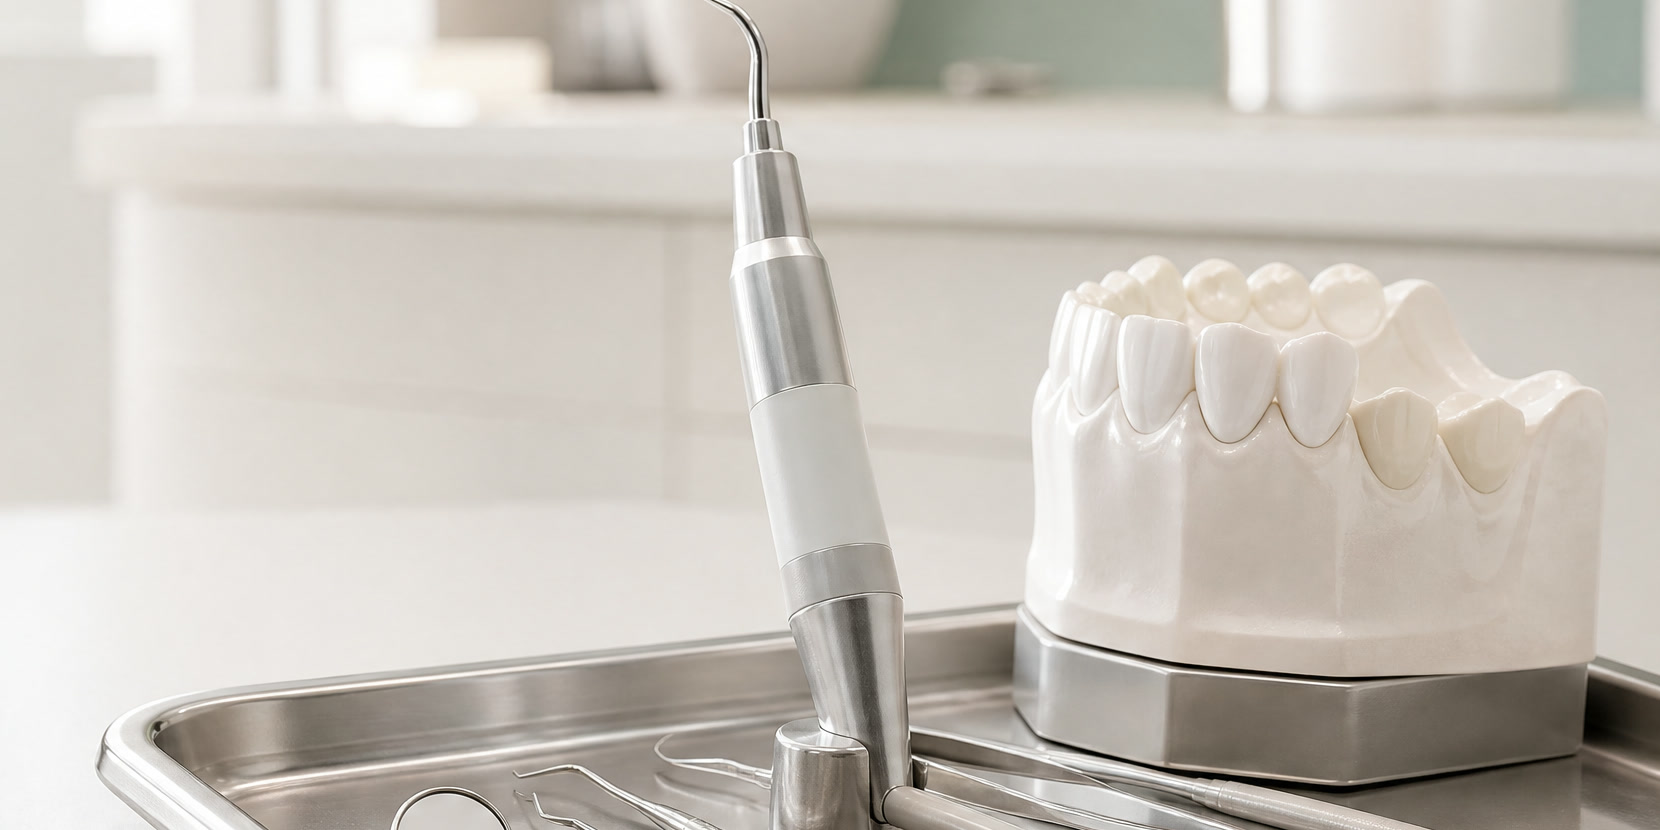
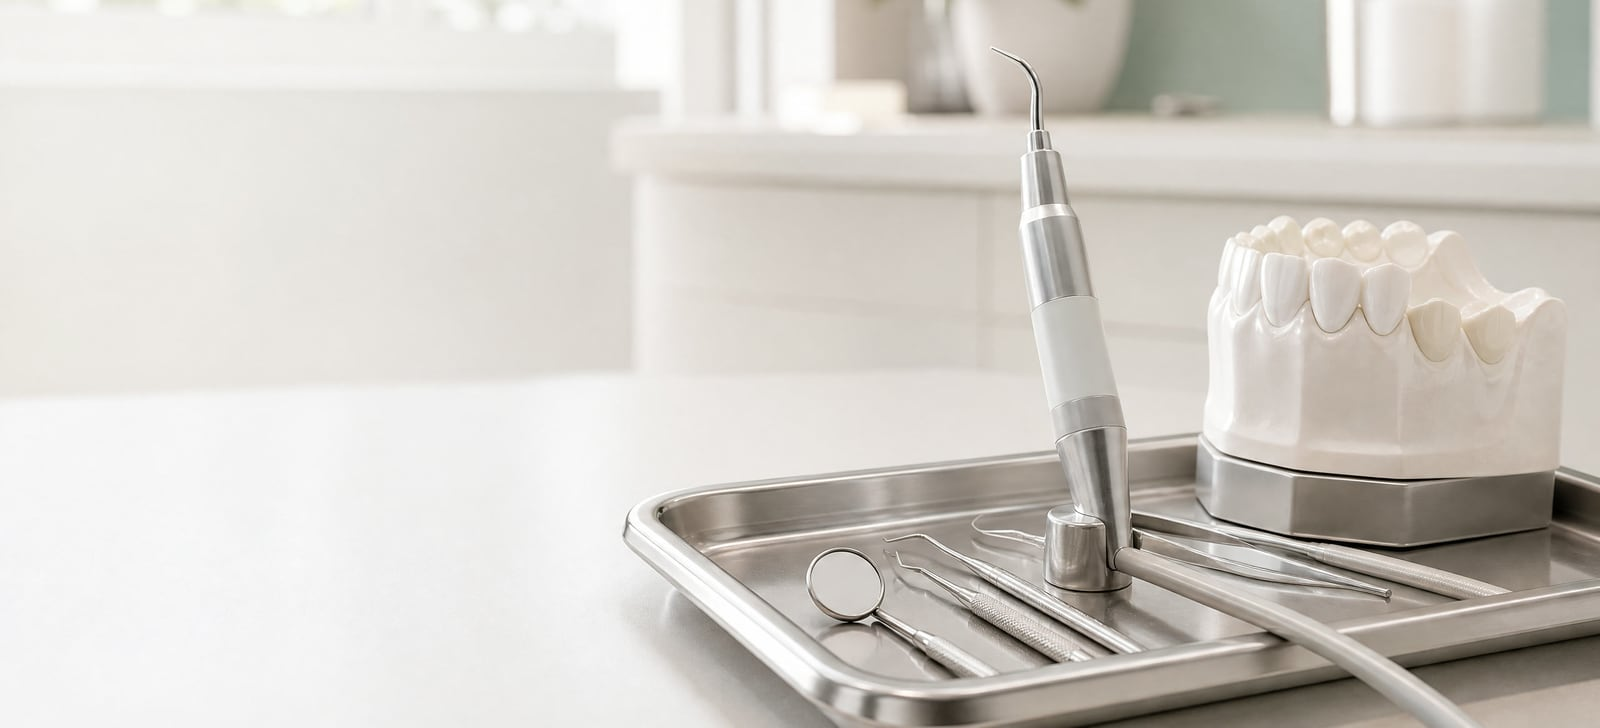
Mobile hero images: re-crop service heroes so the subject is centred and whole
The mobile crops had subjects touching or cut by the top edge, and the band changed shape on wider phones and tablets. Mobile crops are regenerated from the full-size originals around each subject at 2.2:1, and the mobile/tablet band now keeps that same shape.

diff --git a/astro/src/styles/global.css b/astro/src/styles/global.css
@@ -128,9 +128,10 @@ button, a { -webkit-tap-highlight-color: transparent; }
 .porcelain-video-panel__tag { bottom: 1.8rem; color: #ffffff; font-size: .58rem; font-weight: 800; letter-spacing: .13em; position: absolute; right: 1.75rem; text-transform: uppercase; }
 .hero-overlay { background: linear-gradient(90deg, rgba(255,255,255,.74) 0%, rgba(255,255,255,.46) 38%, rgba(255,255,255,.12) 65%, rgba(40,62,60,.08) 100%); }
 
-.page-hero__image-band { height: clamp(200px, 40vw, 320px); overflow: hidden; }
+/* Mobile/tablet hero band keeps the same 2.2:1 shape as the mobile hero crops, so phones and tablets frame the subject the same way. */
+.page-hero__image-band { height: clamp(170px, 45.5vw, 465px); overflow: hidden; }
 .page-hero__image-band img { object-position: var(--hero-pos-mobile, center); }
-.page-hero.taller .page-hero__image-band { height: clamp(230px, 46vw, 380px); }
+.page-hero.taller .page-hero__image-band { height: clamp(170px, 43vw, 440px); }
 .page-hero__copy-band { background: #ffffff; position: relative; }
 .page-hero__copy-panel { max-width: 40rem; padding: 2.15rem 0 2.5rem; }
 .page-hero__copy-panel .stamp { border-color: rgba(53,74,77,.38); color: #354a4d; }
